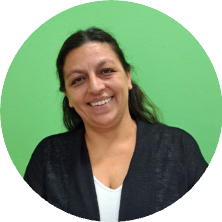
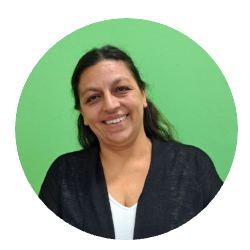
feat: add sidebar, practice request modal, initial data, and professional team view components

diff --git a/src/components/Sidebar.js b/src/components/Sidebar.js
@@ -98,28 +98,26 @@ export function renderSidebar(container) {
       </nav>
 
       <!-- Pie: Representante Municipal a Cargo del Hogar (Municipalidad de Viale) -->
-      <div class="sidebar-footer" style="padding: 0.9rem 1rem; background: rgba(0, 0, 0, 0.4); border-top: 1px solid rgba(255, 255, 255, 0.1);">
-        <div style="display: flex; align-items: center; gap: 0.4rem; margin-bottom: 0.6rem;">
-          <span style="display: inline-block; width: 6px; height: 6px; border-radius: 50%; background: #4ade80;"></span>
-          <span style="font-size: 0.68rem; text-transform: uppercase; color: #86efac; font-weight: 800; letter-spacing: 0.06em;">
-            Autoridad Municipal a Cargo
-          </span>
+      <div class="sidebar-footer" style="padding: 1rem 1.15rem; background: rgba(0, 0, 0, 0.45); border-top: 1px solid rgba(255, 255, 255, 0.1);">
+        <div style="font-size: 0.68rem; text-transform: uppercase; color: #86efac; font-weight: 800; letter-spacing: 0.05em; margin-bottom: 0.6rem; display: flex; align-items: center; gap: 0.4rem;">
+          <svg width="13" height="13" viewBox="0 0 24 24" fill="none" stroke="currentColor" stroke-width="2.5"><path d="M3 21h18M3 10h18M5 6l7-3 7 3M4 10v11M20 10v11M8 14v4M12 14v4M16 14v4"/></svg>
+          Autoridad Municipal a Cargo
         </div>
         
-        <div style="display: flex; align-items: center; gap: 0.85rem; background: rgba(255, 255, 255, 0.05); padding: 0.65rem 0.75rem; border-radius: 10px; border: 1px solid rgba(255, 255, 255, 0.08);">
+        <div style="display: flex; align-items: center; gap: 0.85rem; background: rgba(255, 255, 255, 0.06); padding: 0.7rem 0.85rem; border-radius: 12px; border: 1px solid rgba(141, 198, 63, 0.28);">
           <img 
-            src="assets/bibiana_rojas.png?v=2" 
+            src="/assets/bibiana_rojas.png?v=3" 
             alt="Bibiana Rojas" 
-            style="width: 48px; height: 48px; border-radius: 50%; object-fit: cover; border: 2px solid #ffffff; box-shadow: 0 4px 10px rgba(0, 0, 0, 0.4); flex-shrink: 0;" 
+            style="width: 52px; height: 52px; border-radius: 50%; object-fit: contain; filter: drop-shadow(0 3px 6px rgba(0,0,0,0.45)); flex-shrink: 0;" 
           />
           <div style="min-width: 0; flex: 1;">
-            <div style="font-size: 0.92rem; font-weight: 800; color: #ffffff; line-height: 1.15; letter-spacing: -0.01em;">
+            <div style="font-size: 0.95rem; font-weight: 800; color: #ffffff; line-height: 1.15; letter-spacing: -0.01em;">
               Bibiana Rojas
             </div>
-            <div style="font-size: 0.72rem; color: #cbd5e1; line-height: 1.25; margin-top: 2px;">
+            <div style="font-size: 0.72rem; color: #cbd5e1; line-height: 1.25; margin-top: 3px;">
               Secretaría de Desarrollo Social y Humano
             </div>
-            <div style="font-size: 0.68rem; color: #4ade80; font-weight: 700; margin-top: 1px;">
+            <div style="font-size: 0.68rem; color: #86efac; font-weight: 700; margin-top: 2px;">
               Municipalidad de Viale
             </div>
           </div>

diff --git a/src/views/EquipoProfesionalView.js b/src/views/EquipoProfesionalView.js
@@ -39,7 +39,7 @@ export function renderEquipoProfesionalView(container) {
       <div class="card" style="margin-bottom: 2rem; background: linear-gradient(135deg, #072517 0%, #009640 100%); color: white; border: none; box-shadow: 0 10px 25px -5px rgba(0, 150, 64, 0.35);">
         <div style="display: flex; align-items: center; justify-content: space-between; flex-wrap: wrap; gap: 1.5rem;">
           <div style="display: flex; align-items: center; gap: 1.5rem; flex-wrap: wrap;">
-            <img src="${autoridad.foto_url}" alt="${autoridad.nombre_completo}" style="width: 88px; height: 88px; border-radius: 50%; object-fit: cover; border: 3.5px solid #8dc63f; box-shadow: 0 4px 15px rgba(0,0,0,0.35); flex-shrink: 0;" />
+            <img src="/assets/bibiana_rojas.png?v=3" alt="${autoridad.nombre_completo}" style="width: 90px; height: 90px; border-radius: 50%; object-fit: contain; filter: drop-shadow(0 4px 10px rgba(0,0,0,0.35)); flex-shrink: 0;" />
             <div>
               <div style="display: inline-flex; align-items: center; gap: 0.4rem; background: rgba(255, 255, 255, 0.18); padding: 0.2rem 0.75rem; border-radius: 9999px; font-size: 0.72rem; font-weight: 700; text-transform: uppercase; letter-spacing: 0.05em; margin-bottom: 0.4rem; border: 1px solid rgba(255, 255, 255, 0.25);">
                 <svg width="13" height="13" viewBox="0 0 24 24" fill="none" stroke="currentColor" stroke-width="2.5"><path d="M3 21h18M3 10h18M5 6l7-3 7 3M4 10v11M20 10v11M8 14v4M12 14v4M16 14v4"/></svg>

diff --git a/src/components/SolicitarPracticaModal.js b/src/components/SolicitarPracticaModal.js
@@ -7,7 +7,7 @@
 import { store } from '../state/store.js';
 import { CATALOGO_CIE10, buscarCIE10 } from '../data/catalogoCIE10.js';
 
-export function openSolicitarPracticaModal(residente, onGuardado = () => {}) {
+export function openSolicitarPracticaModal(residente, onGuardado = () => { }) {
   const existing = document.getElementById('solicitar-practica-modal-container');
   if (existing) existing.remove();
 

diff --git a/src/data/initialData.js b/src/data/initialData.js
@@ -7,7 +7,7 @@ export const INITIAL_AUTORIDAD_MUNICIPAL = {
   cargo: "Secretaría de Desarrollo Social y Humano",
   organismo: "Municipalidad de Viale",
   rol_institucional: "Representante Municipal a Cargo del Hogar Madre Teresa",
-  foto_url: "assets/bibiana_rojas.png?v=2"
+  foto_url: "/assets/bibiana_rojas.png?v=3"
 };
 
 export const INITIAL_PROFESIONALES = [
